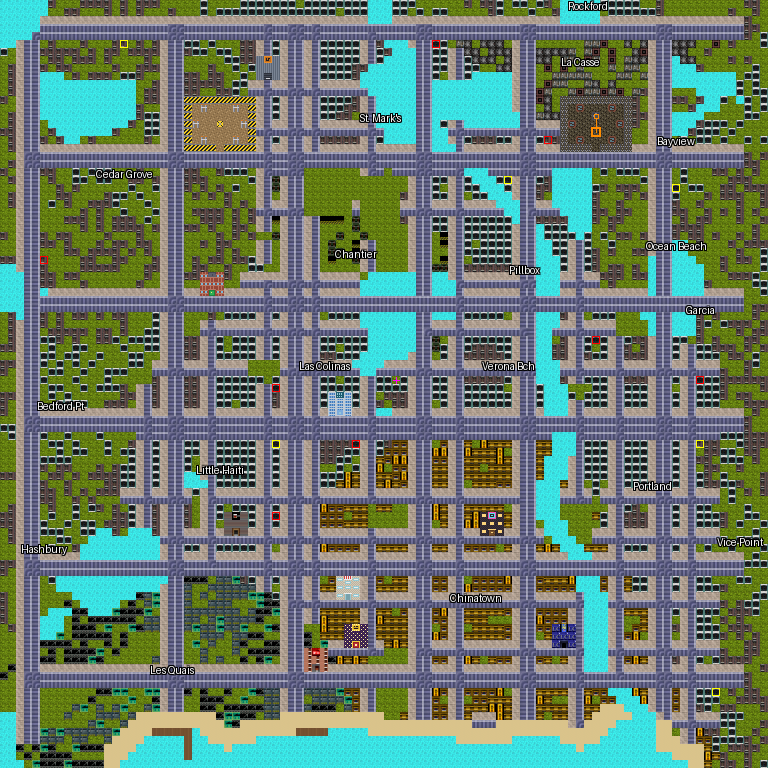
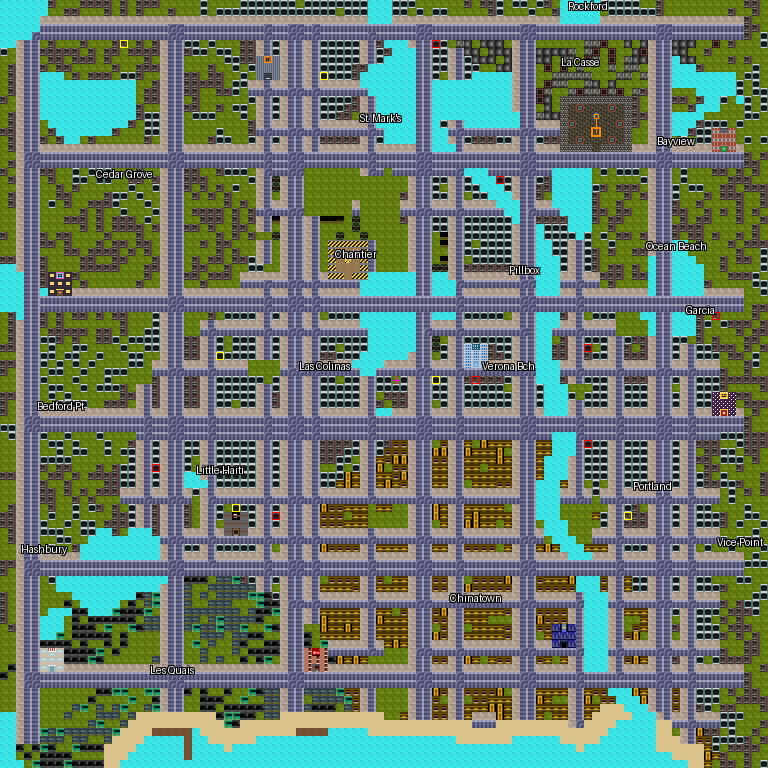
fix(pois): disperse les reperes de campagne + recentre le Chantier
- Les 6 reperes de trame s'agglutinaient (preference downtown). On retire la
  preference de zone et on les pose en farthest-point (chacun le plus loin
  possible des reperes deja places, services inclus) -> repartition sur toute
  la carte. Les 3 services (police/hopital/pompiers) gardent leur position.
- Le Chantier debordait hors de son quartier (blocs trop petits pour un 9x7).
  Blueprint reduit a 5x5 + placement STRICTEMENT dans le quartier construction
  (enceinte entierement dedans, au plus pres du centroide). Crane desormais au
  centre du quartier Chantier.
- Expose district_id/theme_assign sur l'objet city (diagnostic/placement).

119 tests verts. Map regeneree.

diff --git a/gta/citymap_data.cpp b/gta/citymap_data.cpp
@@ -14,13 +14,13 @@ const uint8_t cityMap[CITY_H*CITY_W] = {
   0, 6, 4, 2, 2, 5, 5, 5, 0, 6, 0, 6, 6, 6, 0, 7, 7, 6, 0, 0, 4, 2, 2, 6, 6, 0, 6, 6, 0, 0, 7, 0, 42, 44, 42, 4, 2, 2, 4, 2, 7, 7, 7, 7, 6, 5, 5, 5, 5, 5, 5, 5, 2, 2, 7, 0, 4, 2, 7, 5, 5, 5, 5, 5, 4, 2, 2, 0, 0, 26, 26, 26, 26, 26, 0, 0, 0, 26, 26, 0, 26, 4, 2, 2, 5, 5, 5, 5, 5, 5, 5, 5, 0, 7, 7, 0,
   0, 6, 4, 2, 2, 5, 5, 5, 5, 5, 5, 5, 5, 5, 5, 5, 5, 0, 0, 6, 4, 2, 2, 6, 6, 6, 6, 6, 0, 7, 7, 4, 4, 2, 4, 4, 2, 2, 4, 2, 4, 4, 4, 4, 4, 5, 5, 5, 5, 5, 5, 5, 2, 2, 5, 5, 5, 5, 5, 5, 5, 5, 5, 5, 4, 2, 2, 0, 28, 26, 26, 0, 0, 26, 27, 0, 27, 0, 0, 0, 0, 4, 2, 2, 5, 5, 5, 5, 5, 5, 5, 5, 7, 0, 7, 0,
   0, 6, 4, 2, 2, 5, 5, 5, 5, 5, 5, 5, 5, 5, 5, 5, 5, 0, 6, 6, 4, 2, 2, 6, 6, 0, 0, 6, 6, 7, 0, 1, 1, 3, 1, 1, 3, 3, 1, 3, 1, 1, 1, 1, 1, 1, 5, 5, 5, 5, 5, 5, 2, 2, 5, 5, 5, 5, 5, 5, 5, 5, 5, 5, 4, 2, 2, 28, 26, 0, 0, 26, 28, 26, 26, 28, 26, 28, 0, 26, 6, 4, 2, 2, 0, 0, 0, 5, 5, 5, 5, 5, 7, 0, 7, 7,
-  6, 0, 4, 2, 2, 5, 5, 5, 5, 5, 5, 5, 5, 5, 5, 5, 5, 0, 6, 6, 4, 2, 2, 36, 36, 36, 36, 36, 36, 36, 36, 36, 4, 2, 7, 4, 2, 2, 4, 2, 7, 7, 7, 7, 6, 4, 2, 5, 5, 5, 5, 5, 2, 2, 5, 5, 5, 5, 5, 5, 5, 5, 5, 5, 4, 2, 2, 28, 27, 0, 32, 32, 32, 32, 32, 32, 32, 32, 32, 6, 0, 4, 2, 2, 6, 6, 0, 6, 5, 5, 7, 0, 5, 7, 0, 7,
-  0, 0, 4, 2, 2, 5, 5, 5, 5, 5, 5, 5, 5, 5, 5, 5, 5, 6, 0, 0, 4, 2, 2, 36, 35, 37, 35, 35, 35, 37, 35, 36, 4, 2, 7, 4, 2, 2, 4, 2, 7, 7, 7, 6, 6, 4, 2, 5, 5, 5, 5, 5, 2, 2, 5, 5, 5, 5, 5, 5, 5, 5, 5, 5, 4, 2, 2, 0, 27, 0, 32, 31, 33, 31, 31, 31, 33, 31, 32, 6, 0, 4, 2, 2, 0, 0, 6, 5, 5, 5, 0, 0, 0, 7, 0, 7,
-  0, 6, 4, 2, 2, 5, 5, 5, 5, 5, 5, 5, 5, 5, 5, 5, 5, 6, 7, 7, 4, 2, 2, 36, 35, 35, 35, 35, 35, 35, 35, 36, 4, 2, 7, 4, 2, 2, 4, 2, 7, 7, 6, 6, 0, 4, 2, 5, 5, 5, 5, 5, 2, 2, 5, 5, 5, 5, 5, 5, 5, 5, 5, 5, 5, 2, 2, 26, 27, 27, 32, 31, 31, 31, 34, 31, 31, 31, 32, 6, 6, 4, 2, 2, 5, 5, 5, 5, 0, 0, 0, 0, 0, 7, 7, 0,
-  0, 6, 4, 2, 2, 0, 5, 5, 5, 5, 5, 5, 5, 5, 5, 5, 6, 0, 7, 7, 4, 2, 2, 36, 37, 35, 35, 38, 35, 35, 37, 36, 4, 2, 4, 4, 2, 2, 4, 2, 4, 4, 4, 4, 4, 4, 2, 5, 5, 5, 5, 5, 2, 2, 5, 7, 4, 2, 5, 5, 5, 5, 5, 5, 5, 2, 2, 4, 4, 4, 32, 33, 31, 31, 31, 31, 31, 33, 32, 6, 0, 4, 2, 2, 5, 5, 5, 6, 7, 7, 7, 0, 7, 0, 0, 0,
-  6, 6, 4, 2, 2, 0, 6, 5, 5, 5, 5, 5, 5, 5, 6, 0, 0, 0, 7, 7, 4, 2, 2, 36, 35, 35, 35, 35, 35, 35, 35, 36, 1, 3, 1, 1, 3, 3, 1, 3, 1, 1, 1, 1, 1, 1, 3, 1, 5, 5, 5, 5, 2, 2, 5, 5, 1, 3, 1, 1, 1, 1, 1, 1, 1, 3, 3, 1, 1, 1, 32, 31, 31, 31, 31, 31, 31, 31, 32, 0, 0, 4, 2, 2, 5, 5, 6, 7, 7, 7, 0, 7, 0, 0, 0, 0,
-  0, 6, 4, 2, 2, 6, 0, 6, 5, 5, 0, 6, 0, 0, 0, 0, 0, 0, 6, 0, 4, 2, 2, 36, 35, 37, 35, 35, 35, 37, 35, 36, 4, 2, 7, 4, 2, 2, 4, 2, 6, 6, 6, 6, 6, 4, 2, 7, 5, 5, 5, 5, 2, 2, 5, 5, 4, 2, 7, 6, 6, 6, 7, 7, 4, 2, 2, 7, 6, 6, 32, 31, 33, 31, 31, 31, 33, 31, 32, 0, 0, 4, 2, 2, 0, 7, 0, 7, 7, 0, 7, 0, 0, 7, 0, 7,
-  0, 6, 4, 2, 2, 4, 4, 4, 4, 4, 4, 4, 4, 4, 4, 4, 4, 4, 4, 4, 4, 2, 2, 36, 36, 36, 36, 35, 36, 36, 36, 36, 4, 2, 4, 4, 2, 2, 4, 2, 4, 4, 4, 4, 4, 4, 2, 4, 4, 4, 4, 4, 2, 2, 5, 5, 5, 2, 4, 4, 4, 4, 4, 4, 4, 2, 2, 4, 4, 4, 32, 32, 32, 32, 31, 32, 32, 32, 32, 4, 4, 4, 2, 2, 4, 4, 4, 4, 4, 4, 4, 4, 4, 0, 0, 0,
+  6, 0, 4, 2, 2, 5, 5, 5, 5, 5, 5, 5, 5, 5, 5, 5, 5, 0, 6, 6, 4, 2, 2, 0, 6, 0, 0, 0, 0, 0, 0, 7, 4, 2, 7, 4, 2, 2, 4, 2, 7, 7, 7, 7, 6, 4, 2, 5, 5, 5, 5, 5, 2, 2, 5, 5, 5, 5, 5, 5, 5, 5, 5, 5, 4, 2, 2, 28, 27, 0, 32, 32, 32, 32, 32, 32, 32, 32, 32, 6, 0, 4, 2, 2, 6, 6, 0, 6, 5, 5, 7, 0, 5, 7, 0, 7,
+  0, 0, 4, 2, 2, 5, 5, 5, 5, 5, 5, 5, 5, 5, 5, 5, 5, 6, 0, 0, 4, 2, 2, 6, 6, 0, 0, 6, 0, 7, 7, 0, 4, 2, 7, 4, 2, 2, 4, 2, 7, 7, 7, 6, 6, 4, 2, 5, 5, 5, 5, 5, 2, 2, 5, 5, 5, 5, 5, 5, 5, 5, 5, 5, 4, 2, 2, 0, 27, 0, 32, 31, 33, 31, 31, 31, 33, 31, 32, 6, 0, 4, 2, 2, 0, 0, 6, 5, 5, 5, 0, 0, 0, 7, 0, 7,
+  0, 6, 4, 2, 2, 5, 5, 5, 5, 5, 5, 5, 5, 5, 5, 5, 5, 6, 7, 7, 4, 2, 2, 0, 7, 7, 7, 0, 0, 0, 7, 0, 4, 2, 7, 4, 2, 2, 4, 2, 7, 7, 6, 6, 0, 4, 2, 5, 5, 5, 5, 5, 2, 2, 5, 5, 5, 5, 5, 5, 5, 5, 5, 5, 5, 2, 2, 26, 27, 27, 32, 31, 31, 31, 34, 31, 31, 31, 32, 6, 6, 4, 2, 2, 5, 5, 5, 5, 0, 0, 0, 0, 0, 7, 7, 0,
+  0, 6, 4, 2, 2, 0, 5, 5, 5, 5, 5, 5, 5, 5, 5, 5, 6, 0, 7, 7, 4, 2, 2, 0, 0, 0, 0, 0, 0, 0, 0, 6, 4, 2, 4, 4, 2, 2, 4, 2, 4, 4, 4, 4, 4, 4, 2, 5, 5, 5, 5, 5, 2, 2, 5, 7, 4, 2, 5, 5, 5, 5, 5, 5, 5, 2, 2, 4, 4, 4, 32, 33, 31, 31, 31, 31, 31, 33, 32, 6, 0, 4, 2, 2, 5, 5, 5, 6, 7, 7, 7, 0, 7, 0, 0, 0,
+  6, 6, 4, 2, 2, 0, 6, 5, 5, 5, 5, 5, 5, 5, 6, 0, 0, 0, 7, 7, 4, 2, 2, 0, 0, 0, 0, 7, 0, 0, 0, 6, 1, 3, 1, 1, 3, 3, 1, 3, 1, 1, 1, 1, 1, 1, 3, 1, 5, 5, 5, 5, 2, 2, 5, 5, 1, 3, 1, 1, 1, 1, 1, 1, 1, 3, 3, 1, 1, 1, 32, 31, 31, 31, 31, 31, 31, 31, 32, 0, 0, 4, 2, 2, 5, 5, 6, 7, 7, 39, 40, 39, 0, 0, 0, 0,
+  0, 6, 4, 2, 2, 6, 0, 6, 5, 5, 0, 6, 0, 0, 0, 0, 0, 0, 6, 0, 4, 2, 2, 0, 0, 0, 6, 7, 7, 0, 0, 7, 4, 2, 7, 4, 2, 2, 4, 2, 6, 6, 6, 6, 6, 4, 2, 7, 5, 5, 5, 5, 2, 2, 5, 5, 4, 2, 7, 6, 6, 6, 7, 7, 4, 2, 2, 7, 6, 6, 32, 31, 33, 31, 31, 31, 33, 31, 32, 0, 0, 4, 2, 2, 0, 7, 0, 7, 7, 39, 39, 39, 0, 7, 0, 7,
+  0, 6, 4, 2, 2, 4, 4, 4, 4, 4, 4, 4, 4, 4, 4, 4, 4, 4, 4, 4, 4, 2, 2, 4, 4, 4, 4, 4, 4, 4, 4, 4, 4, 2, 4, 4, 2, 2, 4, 2, 4, 4, 4, 4, 4, 4, 2, 4, 4, 4, 4, 4, 2, 2, 5, 5, 5, 2, 4, 4, 4, 4, 4, 4, 4, 2, 2, 4, 4, 4, 32, 32, 32, 32, 31, 32, 32, 32, 32, 4, 4, 4, 2, 2, 4, 4, 4, 4, 4, 39, 41, 39, 4, 0, 0, 0,
   0, 0, 4, 3, 3, 1, 1, 1, 1, 1, 1, 1, 1, 1, 1, 1, 1, 1, 1, 1, 1, 3, 3, 1, 1, 1, 1, 1, 1, 1, 1, 1, 1, 3, 1, 1, 3, 3, 1, 1, 1, 1, 1, 1, 1, 1, 3, 1, 1, 1, 1, 1, 3, 3, 1, 1, 1, 1, 1, 1, 1, 1, 1, 1, 1, 3, 3, 1, 1, 1, 1, 1, 1, 1, 1, 1, 1, 1, 1, 1, 1, 1, 3, 3, 1, 1, 1, 1, 1, 1, 1, 1, 1, 6, 0, 6,
   0, 6, 4, 3, 3, 1, 1, 1, 1, 1, 1, 1, 1, 1, 1, 1, 1, 1, 1, 1, 1, 3, 3, 1, 1, 1, 1, 1, 1, 1, 1, 1, 1, 3, 1, 1, 3, 3, 1, 1, 1, 1, 1, 1, 1, 1, 3, 1, 1, 1, 1, 1, 3, 3, 1, 1, 1, 1, 1, 1, 1, 1, 1, 1, 1, 3, 3, 1, 1, 1, 1, 1, 1, 1, 1, 1, 1, 1, 1, 1, 1, 1, 3, 3, 1, 1, 1, 1, 1, 1, 1, 1, 1, 6, 6, 0,
   6, 0, 4, 2, 2, 6, 6, 0, 0, 7, 0, 7, 7, 7, 0, 0, 0, 6, 0, 0, 4, 2, 2, 6, 6, 0, 0, 6, 7, 7, 7, 0, 4, 3, 1, 1, 3, 3, 0, 0, 0, 0, 0, 0, 0, 4, 3, 1, 0, 1, 1, 1, 3, 3, 1, 1, 1, 3, 5, 5, 5, 1, 1, 1, 1, 3, 3, 1, 1, 5, 5, 5, 5, 5, 0, 7, 0, 7, 7, 7, 0, 4, 2, 2, 0, 7, 0, 0, 0, 6, 6, 0, 6, 0, 6, 0,
@@ -32,28 +32,28 @@ const uint8_t cityMap[CITY_H*CITY_W] = {
   0, 0, 4, 2, 2, 0, 0, 0, 6, 6, 6, 0, 6, 0, 6, 6, 6, 0, 7, 0, 4, 2, 2, 0, 0, 6, 6, 6, 0, 6, 0, 6, 4, 2, 25, 4, 2, 2, 4, 2, 24, 24, 25, 0, 23, 0, 0, 0, 0, 0, 6, 4, 2, 2, 7, 7, 4, 2, 7, 7, 7, 7, 7, 7, 5, 2, 2, 6, 6, 6, 6, 5, 5, 5, 6, 0, 6, 6, 0, 0, 0, 4, 2, 2, 0, 6, 0, 6, 6, 0, 0, 0, 6, 0, 0, 6,
   0, 0, 4, 2, 2, 0, 0, 0, 0, 0, 6, 0, 6, 0, 6, 6, 6, 6, 0, 6, 4, 2, 2, 6, 6, 0, 6, 0, 0, 6, 6, 0, 4, 2, 0, 4, 2, 2, 4, 2, 0, 0, 0, 0, 23, 0, 0, 0, 0, 0, 0, 4, 2, 2, 7, 7, 4, 2, 7, 7, 7, 7, 7, 7, 4, 2, 2, 5, 7, 7, 7, 5, 5, 5, 0, 0, 6, 0, 0, 0, 0, 4, 2, 2, 6, 6, 6, 6, 0, 0, 0, 0, 0, 0, 6, 0,
   6, 0, 4, 2, 2, 6, 0, 6, 6, 0, 0, 0, 0, 6, 0, 0, 0, 6, 0, 0, 4, 2, 2, 0, 0, 0, 0, 6, 0, 6, 0, 6, 0, 0, 23, 4, 2, 2, 4, 2, 0, 0, 23, 0, 0, 23, 0, 0, 0, 0, 0, 4, 2, 2, 0, 24, 4, 2, 7, 7, 7, 7, 7, 7, 4, 2, 2, 5, 7, 7, 7, 7, 5, 7, 0, 7, 0, 6, 6, 0, 6, 4, 2, 2, 6, 0, 6, 6, 0, 6, 0, 0, 6, 0, 6, 0,
-  0, 0, 4, 2, 2, 6, 6, 0, 6, 0, 0, 0, 6, 0, 6, 6, 0, 6, 6, 0, 4, 2, 2, 0, 0, 6, 0, 6, 6, 0, 0, 0, 4, 2, 0, 4, 2, 2, 4, 2, 0, 23, 0, 0, 25, 4, 2, 0, 0, 0, 0, 4, 2, 2, 0, 24, 4, 2, 7, 0, 7, 7, 7, 7, 4, 2, 2, 5, 5, 7, 7, 4, 2, 7, 0, 0, 7, 0, 0, 0, 0, 4, 2, 2, 5, 5, 0, 6, 0, 0, 0, 6, 0, 6, 6, 6,
-  0, 0, 4, 2, 2, 0, 0, 0, 6, 6, 0, 6, 6, 6, 6, 0, 6, 0, 6, 0, 4, 2, 2, 0, 0, 0, 0, 6, 0, 6, 0, 0, 4, 2, 0, 4, 2, 2, 4, 2, 0, 23, 23, 0, 25, 4, 2, 0, 0, 0, 0, 4, 2, 2, 0, 0, 4, 2, 7, 7, 7, 7, 7, 7, 4, 2, 2, 5, 5, 7, 7, 4, 2, 7, 6, 0, 6, 0, 0, 6, 6, 4, 2, 2, 5, 5, 0, 0, 0, 0, 0, 0, 6, 0, 0, 7,
-  6, 6, 4, 2, 2, 6, 0, 0, 0, 0, 6, 6, 0, 0, 6, 6, 0, 0, 0, 6, 4, 2, 2, 0, 6, 0, 6, 6, 0, 6, 6, 7, 4, 2, 0, 4, 2, 2, 4, 2, 0, 24, 0, 0, 23, 4, 2, 0, 0, 0, 0, 4, 2, 2, 0, 24, 4, 2, 0, 7, 7, 7, 7, 7, 4, 2, 2, 5, 5, 5, 7, 4, 2, 7, 6, 0, 0, 0, 0, 0, 0, 5, 2, 2, 5, 5, 5, 0, 0, 0, 6, 0, 6, 6, 0, 7,
-  5, 5, 4, 2, 2, 6, 0, 0, 0, 0, 6, 6, 6, 6, 6, 0, 0, 0, 6, 6, 4, 2, 2, 0, 6, 6, 0, 0, 6, 0, 0, 7, 7, 0, 0, 4, 2, 2, 4, 2, 0, 0, 0, 0, 0, 4, 2, 0, 0, 0, 0, 4, 2, 2, 23, 23, 4, 2, 6, 6, 6, 6, 6, 6, 4, 2, 2, 5, 5, 5, 7, 4, 2, 7, 6, 0, 6, 6, 0, 6, 0, 5, 2, 2, 5, 5, 5, 5, 0, 0, 6, 0, 0, 0, 0, 7,
-  5, 5, 5, 2, 2, 6, 6, 0, 6, 6, 0, 0, 0, 0, 0, 0, 0, 0, 6, 0, 4, 2, 2, 6, 6, 39, 40, 39, 6, 0, 4, 4, 4, 4, 4, 4, 2, 2, 4, 2, 4, 4, 4, 4, 4, 0, 5, 5, 5, 5, 5, 5, 2, 2, 5, 5, 4, 2, 4, 4, 4, 4, 4, 4, 4, 2, 2, 5, 5, 5, 4, 4, 2, 4, 4, 6, 6, 6, 0, 6, 6, 5, 2, 2, 5, 5, 5, 5, 0, 0, 0, 6, 6, 6, 7, 0,
-  5, 5, 5, 2, 2, 6, 6, 0, 0, 0, 6, 0, 0, 0, 0, 0, 0, 6, 0, 0, 4, 2, 2, 0, 0, 39, 39, 39, 0, 0, 1, 1, 1, 3, 1, 1, 3, 3, 1, 3, 1, 1, 1, 1, 1, 5, 5, 5, 5, 5, 5, 5, 2, 2, 5, 5, 5, 3, 1, 1, 1, 1, 1, 1, 1, 3, 3, 5, 5, 5, 1, 1, 3, 1, 1, 0, 6, 0, 0, 0, 0, 5, 2, 2, 5, 5, 5, 5, 6, 0, 0, 0, 0, 0, 7, 7,
-  5, 5, 5, 2, 2, 5, 4, 4, 4, 4, 4, 4, 4, 4, 4, 4, 4, 4, 4, 4, 4, 2, 2, 4, 4, 39, 41, 39, 4, 4, 4, 4, 4, 2, 4, 4, 2, 2, 4, 2, 4, 4, 4, 4, 4, 5, 5, 5, 5, 5, 5, 5, 2, 2, 5, 5, 5, 2, 4, 4, 4, 4, 4, 4, 4, 2, 2, 5, 5, 5, 4, 4, 2, 4, 4, 4, 4, 4, 4, 4, 4, 5, 2, 2, 5, 5, 5, 5, 4, 4, 4, 4, 4, 0, 0, 7,
+  0, 0, 4, 2, 2, 6, 6, 0, 6, 0, 0, 0, 6, 0, 6, 6, 0, 6, 6, 0, 4, 2, 2, 0, 0, 6, 0, 6, 6, 0, 0, 0, 4, 2, 0, 4, 2, 2, 4, 2, 0, 36, 36, 36, 36, 36, 2, 0, 0, 0, 0, 4, 2, 2, 0, 24, 4, 2, 7, 0, 7, 7, 7, 7, 4, 2, 2, 5, 5, 7, 7, 4, 2, 7, 0, 0, 7, 0, 0, 0, 0, 4, 2, 2, 5, 5, 0, 6, 0, 0, 0, 6, 0, 6, 6, 6,
+  0, 0, 4, 2, 2, 0, 0, 0, 6, 6, 0, 6, 6, 6, 6, 0, 6, 0, 6, 0, 4, 2, 2, 0, 0, 0, 0, 6, 0, 6, 0, 0, 4, 2, 0, 4, 2, 2, 4, 2, 0, 36, 37, 35, 37, 36, 2, 0, 0, 0, 0, 4, 2, 2, 0, 0, 4, 2, 7, 7, 7, 7, 7, 7, 4, 2, 2, 5, 5, 7, 7, 4, 2, 7, 6, 0, 6, 0, 0, 6, 6, 4, 2, 2, 5, 5, 0, 0, 0, 0, 0, 0, 6, 0, 0, 7,
+  6, 6, 4, 2, 2, 6, 0, 0, 0, 0, 6, 6, 0, 0, 6, 6, 0, 0, 0, 6, 4, 2, 2, 0, 6, 0, 6, 6, 0, 6, 6, 7, 4, 2, 0, 4, 2, 2, 4, 2, 0, 36, 35, 38, 35, 36, 2, 0, 0, 0, 0, 4, 2, 2, 0, 24, 4, 2, 0, 7, 7, 7, 7, 7, 4, 2, 2, 5, 5, 5, 7, 4, 2, 7, 6, 0, 0, 0, 0, 0, 0, 5, 2, 2, 5, 5, 5, 0, 0, 0, 6, 0, 6, 6, 0, 7,
+  5, 5, 4, 2, 2, 6, 0, 0, 0, 0, 6, 6, 6, 6, 6, 0, 0, 0, 6, 6, 4, 2, 2, 0, 6, 6, 0, 0, 6, 0, 0, 7, 7, 0, 0, 4, 2, 2, 4, 2, 0, 36, 35, 35, 35, 36, 2, 0, 0, 0, 0, 4, 2, 2, 23, 23, 4, 2, 6, 6, 6, 6, 6, 6, 4, 2, 2, 5, 5, 5, 7, 4, 2, 7, 6, 0, 6, 6, 0, 6, 0, 5, 2, 2, 5, 5, 5, 5, 0, 0, 6, 0, 0, 0, 0, 7,
+  5, 5, 5, 2, 2, 6, 45, 46, 45, 6, 0, 0, 0, 0, 0, 0, 0, 0, 6, 0, 4, 2, 2, 6, 6, 0, 6, 6, 6, 0, 4, 4, 4, 4, 4, 4, 2, 2, 4, 2, 4, 36, 36, 35, 36, 36, 5, 5, 5, 5, 5, 5, 2, 2, 5, 5, 4, 2, 4, 4, 4, 4, 4, 4, 4, 2, 2, 5, 5, 5, 4, 4, 2, 4, 4, 6, 6, 6, 0, 6, 6, 5, 2, 2, 5, 5, 5, 5, 0, 0, 0, 6, 6, 6, 7, 0,
+  5, 5, 5, 2, 2, 6, 45, 45, 45, 0, 6, 0, 0, 0, 0, 0, 0, 6, 0, 0, 4, 2, 2, 0, 0, 6, 0, 0, 0, 0, 1, 1, 1, 3, 1, 1, 3, 3, 1, 3, 1, 1, 1, 1, 1, 5, 5, 5, 5, 5, 5, 5, 2, 2, 5, 5, 5, 3, 1, 1, 1, 1, 1, 1, 1, 3, 3, 5, 5, 5, 1, 1, 3, 1, 1, 0, 6, 0, 0, 0, 0, 5, 2, 2, 5, 5, 5, 5, 6, 0, 0, 0, 0, 0, 7, 7,
+  5, 5, 5, 2, 2, 5, 45, 47, 45, 4, 4, 4, 4, 4, 4, 4, 4, 4, 4, 4, 4, 2, 2, 4, 4, 4, 4, 4, 4, 4, 4, 4, 4, 2, 4, 4, 2, 2, 4, 2, 4, 4, 4, 4, 4, 5, 5, 5, 5, 5, 5, 5, 2, 2, 5, 5, 5, 2, 4, 4, 4, 4, 4, 4, 4, 2, 2, 5, 5, 5, 4, 4, 2, 4, 4, 4, 4, 4, 4, 4, 4, 5, 2, 2, 5, 5, 5, 5, 4, 4, 4, 4, 4, 0, 0, 7,
   5, 5, 5, 2, 2, 1, 1, 1, 1, 1, 1, 1, 1, 1, 1, 1, 1, 1, 1, 1, 1, 3, 3, 1, 1, 1, 1, 1, 1, 1, 1, 1, 1, 3, 1, 1, 3, 3, 1, 3, 1, 1, 1, 1, 1, 1, 1, 1, 1, 1, 1, 1, 1, 1, 1, 1, 1, 3, 1, 1, 1, 1, 1, 1, 1, 3, 3, 1, 1, 1, 1, 1, 3, 1, 1, 1, 1, 1, 1, 1, 1, 1, 1, 1, 1, 1, 1, 1, 1, 1, 1, 1, 1, 0, 0, 0,
   5, 5, 5, 2, 2, 1, 1, 1, 1, 1, 1, 1, 1, 1, 1, 1, 1, 1, 1, 1, 1, 3, 3, 1, 1, 1, 1, 1, 1, 1, 1, 1, 1, 3, 1, 1, 3, 3, 1, 3, 1, 1, 1, 1, 1, 1, 1, 1, 1, 1, 1, 1, 1, 1, 1, 1, 1, 3, 1, 1, 1, 1, 1, 1, 1, 3, 3, 1, 1, 1, 1, 1, 3, 1, 1, 1, 1, 1, 1, 1, 1, 1, 1, 1, 1, 1, 1, 1, 1, 1, 1, 1, 1, 0, 6, 6,
   0, 6, 5, 2, 2, 6, 0, 6, 0, 6, 6, 0, 6, 0, 6, 6, 0, 0, 0, 7, 4, 2, 2, 0, 0, 0, 6, 0, 7, 7, 7, 7, 4, 2, 7, 4, 2, 2, 4, 2, 0, 7, 7, 7, 7, 5, 5, 5, 5, 5, 5, 5, 2, 2, 5, 5, 5, 2, 7, 7, 7, 7, 7, 0, 4, 2, 2, 5, 5, 5, 6, 4, 2, 0, 7, 7, 7, 0, 0, 0, 5, 5, 2, 2, 5, 5, 5, 6, 0, 6, 0, 0, 0, 0, 6, 0,
   0, 6, 4, 2, 2, 6, 0, 6, 0, 0, 0, 0, 0, 0, 0, 6, 0, 0, 0, 7, 4, 2, 2, 0, 0, 4, 2, 4, 4, 4, 4, 4, 4, 2, 4, 4, 2, 2, 4, 2, 4, 4, 4, 4, 4, 5, 5, 5, 5, 5, 5, 5, 2, 2, 4, 4, 4, 2, 4, 4, 4, 4, 4, 4, 4, 2, 2, 5, 5, 5, 4, 4, 2, 4, 4, 4, 4, 0, 0, 0, 0, 5, 2, 2, 5, 5, 5, 6, 7, 0, 7, 6, 6, 6, 0, 6,
   0, 6, 4, 2, 2, 0, 6, 6, 6, 6, 6, 0, 6, 6, 0, 6, 0, 0, 7, 7, 4, 2, 2, 0, 0, 1, 3, 1, 1, 1, 1, 1, 1, 3, 1, 1, 3, 3, 1, 3, 1, 1, 1, 1, 1, 1, 5, 5, 5, 5, 5, 5, 2, 3, 1, 1, 1, 3, 1, 1, 1, 1, 1, 1, 1, 3, 2, 5, 5, 1, 1, 1, 3, 1, 1, 1, 1, 0, 0, 0, 0, 5, 2, 2, 5, 5, 5, 6, 0, 0, 0, 0, 6, 0, 6, 6,
   0, 6, 4, 2, 2, 7, 7, 6, 0, 6, 0, 0, 6, 6, 7, 0, 7, 7, 7, 7, 4, 2, 2, 6, 6, 4, 2, 7, 0, 7, 7, 7, 4, 2, 7, 4, 2, 2, 4, 2, 7, 7, 7, 7, 7, 7, 5, 5, 5, 5, 5, 5, 2, 2, 23, 0, 4, 2, 7, 7, 7, 7, 7, 7, 4, 2, 2, 5, 5, 0, 6, 4, 2, 7, 7, 7, 4, 2, 7, 6, 6, 4, 2, 2, 7, 7, 0, 6, 0, 6, 0, 0, 0, 6, 6, 0,
-  6, 6, 4, 2, 2, 0, 7, 0, 0, 7, 7, 0, 0, 0, 0, 7, 0, 0, 7, 7, 4, 2, 2, 6, 6, 4, 2, 7, 0, 7, 7, 7, 4, 2, 7, 4, 2, 2, 4, 2, 7, 7, 0, 7, 7, 7, 5, 5, 5, 5, 5, 5, 2, 2, 23, 7, 4, 2, 7, 6, 6, 6, 7, 7, 4, 2, 2, 5, 5, 6, 6, 4, 2, 7, 0, 7, 4, 2, 6, 0, 6, 4, 2, 2, 7, 4, 2, 7, 7, 6, 6, 6, 0, 6, 0, 6,
-  0, 0, 4, 2, 2, 7, 7, 0, 7, 7, 0, 0, 7, 0, 0, 0, 7, 7, 0, 0, 4, 2, 2, 6, 6, 4, 2, 7, 7, 7, 7, 7, 4, 2, 7, 4, 2, 2, 4, 2, 6, 6, 7, 7, 7, 5, 5, 5, 5, 5, 5, 4, 2, 2, 0, 7, 4, 2, 6, 6, 6, 6, 6, 7, 4, 2, 2, 5, 5, 6, 6, 4, 2, 6, 7, 7, 4, 2, 6, 6, 6, 4, 2, 2, 7, 4, 2, 7, 7, 7, 0, 6, 6, 0, 7, 0,
-  6, 6, 4, 2, 2, 7, 0, 7, 0, 7, 0, 7, 0, 0, 0, 0, 7, 7, 0, 4, 4, 2, 2, 4, 4, 4, 2, 4, 4, 4, 4, 0, 0, 0, 0, 4, 2, 2, 4, 2, 4, 4, 4, 4, 5, 5, 5, 5, 4, 4, 4, 4, 2, 2, 4, 4, 4, 2, 4, 4, 4, 4, 4, 4, 4, 2, 2, 5, 5, 5, 4, 4, 2, 4, 4, 4, 4, 2, 4, 4, 4, 4, 2, 2, 4, 4, 2, 4, 4, 4, 0, 0, 0, 6, 7, 0,
+  6, 6, 4, 2, 2, 0, 7, 0, 0, 7, 7, 0, 0, 0, 0, 7, 0, 0, 7, 7, 4, 2, 2, 6, 6, 4, 2, 7, 0, 7, 7, 7, 4, 2, 7, 4, 2, 2, 4, 2, 7, 7, 0, 7, 7, 7, 5, 5, 5, 5, 5, 5, 2, 2, 23, 7, 4, 2, 48, 49, 48, 6, 7, 7, 4, 2, 2, 5, 5, 6, 6, 4, 2, 7, 0, 7, 4, 2, 6, 0, 6, 4, 2, 2, 7, 4, 2, 7, 7, 6, 6, 6, 0, 6, 0, 6,
+  0, 0, 4, 2, 2, 7, 7, 0, 7, 7, 0, 0, 7, 0, 0, 0, 7, 7, 0, 0, 4, 2, 2, 6, 6, 4, 2, 7, 7, 7, 7, 7, 4, 2, 7, 4, 2, 2, 4, 2, 6, 6, 7, 7, 7, 5, 5, 5, 5, 5, 5, 4, 2, 2, 0, 7, 4, 2, 48, 48, 48, 6, 6, 7, 4, 2, 2, 5, 5, 6, 6, 4, 2, 6, 7, 7, 4, 2, 6, 6, 6, 4, 2, 2, 7, 4, 2, 7, 7, 7, 0, 6, 6, 0, 7, 0,
+  6, 6, 4, 2, 2, 7, 0, 7, 0, 7, 0, 7, 0, 0, 0, 0, 7, 7, 0, 4, 4, 2, 2, 4, 4, 4, 2, 4, 4, 4, 4, 0, 0, 0, 0, 4, 2, 2, 4, 2, 4, 4, 4, 4, 5, 5, 5, 5, 4, 4, 4, 4, 2, 2, 4, 4, 4, 2, 48, 50, 48, 4, 4, 4, 4, 2, 2, 5, 5, 5, 4, 4, 2, 4, 4, 4, 4, 2, 4, 4, 4, 4, 2, 2, 4, 4, 2, 4, 4, 4, 0, 0, 0, 6, 7, 0,
   6, 0, 4, 2, 2, 0, 7, 7, 0, 0, 7, 0, 0, 7, 7, 7, 0, 0, 0, 1, 1, 3, 3, 1, 1, 1, 3, 1, 1, 1, 1, 0, 0, 0, 0, 1, 3, 3, 1, 3, 1, 1, 1, 1, 1, 5, 5, 1, 1, 1, 1, 1, 3, 3, 1, 1, 1, 3, 1, 1, 1, 1, 1, 1, 1, 3, 3, 5, 5, 5, 1, 1, 3, 1, 1, 1, 1, 3, 1, 1, 1, 1, 3, 3, 1, 1, 3, 1, 1, 1, 6, 0, 0, 6, 0, 0,
   0, 0, 4, 2, 2, 7, 0, 0, 0, 7, 0, 0, 0, 7, 0, 0, 0, 0, 0, 6, 4, 2, 2, 6, 6, 4, 2, 7, 7, 7, 7, 7, 7, 0, 7, 4, 2, 2, 4, 2, 7, 7, 0, 7, 7, 4, 2, 7, 7, 0, 7, 4, 2, 2, 7, 7, 4, 2, 6, 6, 6, 6, 6, 7, 4, 2, 2, 5, 5, 5, 6, 4, 2, 7, 7, 7, 4, 2, 6, 6, 6, 4, 2, 2, 7, 4, 2, 7, 7, 7, 6, 6, 6, 6, 6, 6,
   0, 0, 4, 2, 2, 0, 7, 7, 0, 0, 7, 0, 7, 7, 7, 6, 0, 4, 2, 6, 4, 2, 2, 6, 6, 4, 2, 7, 7, 7, 7, 7, 4, 2, 7, 4, 2, 2, 4, 2, 7, 7, 7, 7, 7, 4, 2, 7, 7, 7, 7, 4, 2, 2, 7, 7, 4, 2, 7, 7, 7, 7, 7, 0, 4, 2, 2, 7, 5, 5, 5, 0, 0, 0, 7, 7, 4, 2, 7, 7, 7, 4, 2, 2, 0, 4, 2, 7, 7, 7, 6, 0, 0, 0, 0, 6,
-  6, 6, 4, 2, 2, 0, 7, 0, 7, 0, 0, 0, 0, 0, 0, 6, 6, 4, 2, 6, 4, 2, 2, 6, 6, 4, 2, 7, 7, 7, 7, 7, 4, 2, 6, 4, 2, 2, 4, 2, 7, 48, 49, 48, 7, 4, 2, 0, 6, 6, 6, 4, 2, 2, 7, 7, 4, 2, 7, 7, 7, 7, 7, 7, 4, 2, 2, 7, 5, 5, 5, 7, 0, 7, 7, 7, 4, 2, 7, 7, 7, 4, 2, 2, 7, 4, 2, 7, 7, 7, 6, 0, 6, 6, 0, 0,
-  6, 0, 4, 2, 2, 0, 0, 7, 7, 7, 7, 0, 0, 6, 6, 6, 0, 4, 2, 6, 4, 2, 2, 6, 6, 4, 2, 7, 7, 0, 7, 7, 4, 2, 6, 4, 2, 2, 4, 2, 7, 48, 48, 48, 7, 4, 2, 6, 0, 6, 6, 4, 2, 2, 0, 7, 4, 2, 7, 7, 7, 7, 7, 7, 4, 2, 2, 7, 5, 5, 5, 4, 2, 7, 7, 7, 4, 2, 7, 7, 7, 4, 2, 2, 7, 4, 2, 7, 7, 7, 0, 0, 0, 6, 6, 6,
-  6, 0, 4, 2, 2, 4, 4, 4, 4, 4, 4, 4, 4, 4, 4, 4, 4, 4, 2, 4, 4, 2, 2, 4, 4, 4, 2, 4, 4, 4, 4, 4, 4, 2, 4, 4, 2, 2, 4, 2, 4, 48, 50, 48, 4, 4, 2, 5, 5, 4, 4, 4, 2, 2, 4, 4, 4, 2, 4, 4, 4, 4, 4, 4, 4, 2, 2, 4, 5, 5, 5, 4, 2, 4, 4, 4, 4, 2, 4, 4, 4, 4, 2, 2, 4, 4, 2, 4, 4, 4, 4, 4, 4, 0, 6, 0,
+  6, 6, 4, 2, 2, 0, 7, 0, 7, 0, 0, 0, 0, 0, 0, 6, 6, 4, 2, 6, 4, 2, 2, 6, 6, 4, 2, 7, 7, 7, 7, 7, 4, 2, 6, 4, 2, 2, 4, 2, 7, 7, 7, 7, 7, 4, 2, 0, 6, 6, 6, 4, 2, 2, 7, 7, 4, 2, 7, 7, 7, 7, 7, 7, 4, 2, 2, 7, 5, 5, 5, 7, 0, 7, 7, 7, 4, 2, 7, 7, 7, 4, 2, 2, 7, 4, 2, 7, 7, 51, 52, 51, 6, 6, 0, 0,
+  6, 0, 4, 2, 2, 0, 0, 7, 7, 7, 7, 0, 0, 6, 6, 6, 0, 4, 2, 6, 4, 2, 2, 6, 6, 4, 2, 7, 7, 0, 7, 7, 4, 2, 6, 4, 2, 2, 4, 2, 7, 7, 7, 7, 7, 4, 2, 6, 0, 6, 6, 4, 2, 2, 0, 7, 4, 2, 7, 7, 7, 7, 7, 7, 4, 2, 2, 7, 5, 5, 5, 4, 2, 7, 7, 7, 4, 2, 7, 7, 7, 4, 2, 2, 7, 4, 2, 7, 7, 51, 51, 51, 0, 6, 6, 6,
+  6, 0, 4, 2, 2, 4, 4, 4, 4, 4, 4, 4, 4, 4, 4, 4, 4, 4, 2, 4, 4, 2, 2, 4, 4, 4, 2, 4, 4, 4, 4, 4, 4, 2, 4, 4, 2, 2, 4, 2, 4, 4, 4, 4, 4, 4, 2, 5, 5, 4, 4, 4, 2, 2, 4, 4, 4, 2, 4, 4, 4, 4, 4, 4, 4, 2, 2, 4, 5, 5, 5, 4, 2, 4, 4, 4, 4, 2, 4, 4, 4, 4, 2, 2, 4, 4, 2, 4, 4, 51, 53, 51, 4, 0, 6, 0,
   0, 0, 4, 3, 3, 1, 1, 1, 1, 1, 1, 1, 1, 1, 1, 1, 1, 1, 3, 1, 1, 3, 3, 1, 1, 1, 3, 1, 1, 1, 1, 1, 1, 3, 1, 1, 3, 3, 1, 3, 1, 1, 1, 1, 1, 1, 3, 1, 1, 1, 1, 1, 3, 3, 1, 1, 1, 3, 1, 1, 1, 1, 1, 1, 1, 3, 3, 1, 1, 1, 1, 1, 3, 1, 1, 1, 1, 3, 1, 1, 1, 1, 3, 3, 1, 1, 3, 1, 1, 1, 1, 1, 1, 6, 0, 0,
   7, 7, 4, 3, 3, 1, 1, 1, 1, 1, 1, 1, 1, 1, 1, 1, 1, 1, 3, 1, 1, 3, 3, 1, 1, 1, 3, 1, 1, 1, 1, 1, 1, 3, 1, 1, 3, 3, 1, 3, 1, 1, 1, 1, 1, 1, 3, 1, 1, 1, 1, 1, 3, 3, 1, 1, 1, 3, 1, 1, 1, 1, 1, 1, 1, 3, 3, 1, 1, 1, 1, 1, 3, 1, 1, 1, 1, 3, 1, 1, 1, 1, 3, 3, 1, 1, 3, 1, 1, 1, 1, 1, 1, 6, 0, 0,
   0, 7, 4, 2, 2, 7, 0, 0, 7, 0, 0, 0, 7, 0, 0, 0, 0, 1, 3, 1, 1, 3, 3, 1, 1, 1, 3, 1, 1, 1, 1, 1, 1, 3, 1, 1, 3, 3, 1, 3, 1, 1, 1, 1, 1, 1, 3, 1, 1, 1, 1, 1, 3, 3, 1, 1, 1, 3, 1, 1, 1, 1, 1, 1, 1, 3, 3, 1, 1, 5, 5, 5, 3, 1, 1, 1, 1, 3, 1, 1, 1, 1, 3, 3, 1, 1, 3, 1, 1, 1, 7, 7, 7, 6, 6, 6,
@@ -66,26 +66,26 @@ const uint8_t cityMap[CITY_H*CITY_W] = {
   0, 0, 4, 2, 2, 6, 6, 0, 6, 0, 6, 0, 6, 6, 6, 4, 4, 4, 2, 4, 4, 2, 2, 4, 7, 4, 2, 4, 4, 4, 4, 4, 4, 2, 4, 4, 2, 2, 4, 2, 4, 4, 4, 4, 4, 4, 2, 4, 4, 4, 4, 4, 2, 2, 4, 4, 4, 2, 4, 4, 4, 4, 4, 4, 4, 2, 2, 5, 5, 5, 4, 4, 2, 4, 7, 4, 4, 2, 4, 4, 4, 4, 2, 2, 4, 4, 2, 4, 4, 4, 0, 7, 0, 6, 0, 6,
   0, 0, 4, 2, 2, 6, 6, 0, 0, 6, 0, 6, 0, 0, 0, 1, 1, 1, 3, 1, 1, 3, 3, 1, 0, 4, 3, 1, 1, 1, 1, 1, 1, 3, 1, 1, 3, 3, 1, 3, 1, 1, 1, 1, 1, 1, 3, 1, 1, 1, 1, 1, 3, 3, 1, 1, 1, 3, 1, 1, 1, 1, 1, 1, 1, 2, 2, 5, 5, 5, 1, 1, 3, 1, 0, 1, 1, 3, 1, 1, 1, 1, 3, 3, 1, 1, 3, 1, 1, 1, 0, 7, 0, 0, 0, 0,
   0, 6, 4, 2, 2, 0, 6, 0, 0, 7, 0, 7, 6, 0, 6, 0, 7, 4, 2, 6, 4, 2, 2, 6, 0, 4, 2, 7, 0, 7, 7, 7, 4, 2, 7, 4, 2, 2, 4, 2, 10, 9, 9, 8, 8, 8, 0, 8, 8, 0, 0, 4, 2, 2, 10, 8, 4, 2, 8, 8, 8, 8, 8, 0, 4, 2, 2, 5, 5, 5, 0, 0, 0, 0, 0, 0, 4, 2, 7, 6, 0, 4, 2, 2, 7, 4, 2, 7, 7, 0, 0, 0, 0, 7, 0, 0,
-  6, 6, 4, 2, 2, 0, 7, 0, 0, 7, 0, 0, 0, 0, 6, 6, 7, 4, 2, 6, 4, 2, 2, 6, 0, 4, 2, 7, 14, 15, 14, 7, 4, 2, 7, 4, 2, 2, 4, 2, 9, 9, 9, 0, 8, 8, 0, 0, 0, 0, 0, 4, 2, 2, 10, 8, 4, 2, 8, 10, 45, 46, 45, 8, 4, 2, 2, 5, 5, 5, 0, 0, 0, 0, 8, 7, 4, 2, 6, 6, 6, 4, 2, 2, 7, 4, 2, 7, 7, 7, 6, 0, 0, 7, 7, 0,
-  6, 6, 4, 2, 2, 7, 0, 0, 7, 0, 7, 7, 0, 6, 6, 6, 7, 4, 2, 6, 4, 2, 2, 6, 0, 4, 2, 0, 14, 14, 14, 7, 4, 2, 7, 4, 2, 2, 4, 2, 9, 9, 9, 8, 8, 8, 0, 0, 0, 0, 0, 4, 2, 2, 0, 8, 4, 2, 10, 10, 45, 45, 45, 8, 4, 2, 2, 0, 5, 5, 5, 0, 0, 0, 0, 7, 4, 2, 6, 6, 6, 4, 2, 2, 7, 4, 2, 7, 7, 7, 6, 0, 7, 0, 0, 7,
-  0, 6, 4, 2, 2, 7, 7, 7, 0, 0, 7, 7, 5, 5, 6, 0, 5, 5, 5, 6, 4, 2, 2, 4, 4, 4, 2, 4, 14, 16, 14, 4, 4, 2, 4, 4, 2, 2, 4, 2, 4, 4, 4, 4, 4, 4, 2, 4, 4, 4, 4, 4, 2, 2, 4, 4, 4, 2, 4, 4, 45, 47, 45, 4, 4, 2, 2, 4, 5, 5, 5, 0, 0, 0, 4, 4, 4, 2, 4, 4, 4, 4, 2, 2, 4, 4, 2, 4, 4, 4, 0, 0, 0, 0, 7, 0,
+  6, 6, 4, 2, 2, 0, 7, 0, 0, 7, 0, 0, 0, 0, 6, 6, 7, 4, 2, 6, 4, 2, 2, 6, 0, 4, 2, 7, 14, 15, 14, 7, 4, 2, 7, 4, 2, 2, 4, 2, 9, 9, 9, 0, 8, 8, 0, 0, 0, 0, 0, 4, 2, 2, 10, 8, 4, 2, 8, 10, 8, 8, 8, 8, 4, 2, 2, 5, 5, 5, 0, 0, 0, 0, 8, 7, 4, 2, 6, 6, 6, 4, 2, 2, 7, 4, 2, 7, 7, 7, 6, 0, 0, 7, 7, 0,
+  6, 6, 4, 2, 2, 7, 0, 0, 7, 0, 7, 7, 0, 6, 6, 6, 7, 4, 2, 6, 4, 2, 2, 6, 0, 4, 2, 0, 14, 14, 14, 7, 4, 2, 7, 4, 2, 2, 4, 2, 9, 9, 9, 8, 8, 8, 0, 0, 0, 0, 0, 4, 2, 2, 0, 8, 4, 2, 10, 10, 8, 8, 0, 8, 4, 2, 2, 0, 5, 5, 5, 0, 0, 0, 0, 7, 4, 2, 6, 6, 6, 4, 2, 2, 7, 4, 2, 7, 7, 7, 6, 0, 7, 0, 0, 7,
+  0, 6, 4, 2, 2, 7, 7, 7, 0, 0, 7, 7, 5, 5, 6, 0, 5, 5, 5, 6, 4, 2, 2, 4, 4, 4, 2, 4, 14, 16, 14, 4, 4, 2, 4, 4, 2, 2, 4, 2, 4, 4, 4, 4, 4, 4, 2, 4, 4, 4, 4, 4, 2, 2, 4, 4, 4, 2, 4, 4, 4, 4, 4, 4, 4, 2, 2, 4, 5, 5, 5, 0, 0, 0, 4, 4, 4, 2, 4, 4, 4, 4, 2, 2, 4, 4, 2, 4, 4, 4, 0, 0, 0, 0, 7, 0,
   0, 6, 4, 2, 2, 0, 0, 7, 7, 0, 0, 5, 5, 5, 5, 5, 5, 5, 5, 5, 1, 3, 3, 1, 1, 1, 3, 1, 1, 1, 1, 1, 1, 3, 1, 1, 3, 3, 1, 3, 1, 1, 1, 1, 1, 1, 3, 1, 1, 1, 1, 1, 3, 3, 1, 1, 1, 3, 1, 1, 1, 1, 1, 1, 1, 3, 3, 1, 0, 5, 5, 5, 0, 0, 1, 1, 1, 3, 1, 1, 1, 1, 3, 3, 1, 1, 3, 1, 1, 1, 7, 0, 7, 7, 7, 0,
   0, 0, 4, 2, 2, 0, 7, 0, 0, 6, 5, 5, 5, 5, 5, 5, 5, 5, 5, 5, 4, 2, 2, 7, 7, 4, 2, 7, 7, 7, 7, 7, 4, 2, 0, 4, 2, 2, 4, 2, 10, 9, 9, 9, 9, 4, 2, 8, 8, 8, 8, 4, 2, 2, 8, 8, 4, 2, 9, 9, 9, 9, 0, 8, 4, 2, 2, 8, 10, 8, 5, 5, 5, 8, 8, 8, 4, 2, 7, 7, 7, 4, 2, 2, 7, 4, 2, 0, 7, 0, 0, 7, 0, 0, 0, 7,
   0, 0, 4, 2, 2, 4, 4, 4, 4, 4, 5, 5, 5, 5, 5, 5, 5, 5, 5, 5, 4, 2, 2, 4, 4, 4, 2, 4, 4, 4, 4, 4, 4, 2, 4, 4, 2, 2, 4, 2, 4, 4, 4, 4, 4, 4, 2, 4, 4, 4, 4, 4, 2, 2, 4, 4, 4, 2, 4, 4, 4, 4, 4, 4, 4, 2, 2, 4, 4, 4, 4, 5, 5, 5, 4, 4, 4, 2, 4, 4, 4, 4, 2, 2, 4, 4, 2, 4, 4, 4, 4, 4, 4, 0, 7, 0,
   6, 6, 4, 3, 3, 1, 1, 1, 1, 1, 1, 1, 1, 1, 1, 1, 1, 1, 1, 1, 1, 3, 3, 1, 1, 1, 3, 1, 1, 1, 1, 1, 1, 3, 1, 1, 3, 3, 1, 3, 1, 1, 1, 1, 1, 1, 3, 1, 1, 1, 1, 1, 3, 3, 1, 1, 1, 3, 1, 1, 1, 1, 1, 1, 1, 3, 3, 1, 1, 1, 1, 1, 1, 1, 1, 1, 1, 3, 1, 1, 1, 1, 3, 3, 1, 1, 3, 1, 1, 1, 1, 1, 1, 7, 7, 7,
   6, 0, 4, 3, 3, 1, 1, 1, 1, 1, 1, 1, 1, 1, 1, 1, 1, 1, 1, 1, 1, 3, 3, 1, 1, 1, 1, 1, 1, 1, 1, 1, 1, 3, 1, 1, 3, 3, 1, 3, 1, 1, 1, 1, 1, 1, 3, 1, 1, 1, 1, 1, 3, 3, 1, 1, 1, 3, 1, 1, 1, 1, 1, 1, 1, 3, 3, 1, 1, 1, 1, 1, 1, 1, 1, 1, 1, 3, 1, 1, 1, 1, 3, 3, 1, 1, 3, 1, 1, 1, 1, 1, 1, 0, 0, 0,
-  0, 0, 4, 2, 2, 0, 7, 5, 5, 5, 5, 5, 5, 5, 5, 5, 5, 5, 5, 5, 5, 2, 2, 20, 20, 20, 0, 21, 21, 22, 6, 7, 4, 2, 7, 4, 2, 2, 4, 2, 0, 9, 54, 55, 54, 4, 2, 9, 0, 8, 8, 4, 2, 2, 9, 9, 4, 2, 0, 9, 9, 9, 9, 10, 4, 2, 2, 9, 8, 8, 8, 10, 5, 5, 5, 9, 4, 2, 8, 7, 7, 4, 2, 2, 7, 4, 2, 7, 7, 0, 0, 0, 7, 7, 0, 0,
-  0, 0, 4, 2, 2, 0, 0, 5, 5, 5, 5, 5, 5, 5, 5, 5, 5, 5, 5, 5, 4, 2, 2, 21, 0, 0, 21, 21, 21, 21, 21, 21, 4, 2, 0, 4, 2, 2, 4, 2, 8, 8, 54, 54, 54, 4, 2, 8, 8, 8, 8, 4, 2, 2, 9, 9, 4, 2, 10, 9, 9, 9, 9, 9, 4, 2, 2, 9, 9, 9, 9, 9, 5, 5, 5, 9, 4, 2, 8, 7, 7, 4, 2, 2, 7, 4, 2, 7, 7, 7, 6, 0, 0, 0, 0, 7,
-  6, 0, 4, 2, 2, 0, 0, 0, 0, 5, 5, 5, 5, 5, 5, 5, 5, 20, 21, 22, 4, 2, 2, 21, 0, 21, 0, 21, 21, 21, 21, 22, 22, 20, 7, 4, 2, 2, 4, 2, 4, 4, 54, 56, 54, 4, 2, 4, 4, 4, 4, 4, 2, 2, 4, 4, 4, 2, 4, 4, 4, 4, 4, 4, 4, 2, 2, 4, 4, 4, 4, 4, 2, 5, 5, 5, 4, 2, 4, 4, 4, 4, 2, 2, 4, 4, 2, 4, 4, 4, 0, 0, 0, 0, 7, 7,
+  0, 0, 4, 2, 2, 0, 7, 5, 5, 5, 5, 5, 5, 5, 5, 5, 5, 5, 5, 5, 5, 2, 2, 20, 20, 20, 0, 21, 21, 22, 6, 7, 4, 2, 7, 4, 2, 2, 4, 2, 0, 9, 9, 9, 9, 4, 2, 9, 0, 8, 8, 4, 2, 2, 9, 9, 4, 2, 0, 9, 9, 9, 9, 10, 4, 2, 2, 9, 8, 8, 8, 10, 5, 5, 5, 9, 4, 2, 8, 7, 7, 4, 2, 2, 7, 4, 2, 7, 7, 0, 0, 0, 7, 7, 0, 0,
+  0, 0, 4, 2, 2, 0, 0, 5, 5, 5, 5, 5, 5, 5, 5, 5, 5, 5, 5, 5, 4, 2, 2, 21, 0, 0, 21, 21, 21, 21, 21, 21, 4, 2, 0, 4, 2, 2, 4, 2, 8, 8, 8, 8, 9, 4, 2, 8, 8, 8, 8, 4, 2, 2, 9, 9, 4, 2, 10, 9, 9, 9, 9, 9, 4, 2, 2, 9, 9, 9, 9, 9, 5, 5, 5, 9, 4, 2, 8, 7, 7, 4, 2, 2, 7, 4, 2, 7, 7, 7, 6, 0, 0, 0, 0, 7,
+  6, 0, 4, 2, 2, 0, 0, 0, 0, 5, 5, 5, 5, 5, 5, 5, 5, 20, 21, 22, 4, 2, 2, 21, 0, 21, 0, 21, 21, 21, 21, 22, 22, 20, 7, 4, 2, 2, 4, 2, 4, 4, 4, 4, 4, 4, 2, 4, 4, 4, 4, 4, 2, 2, 4, 4, 4, 2, 4, 4, 4, 4, 4, 4, 4, 2, 2, 4, 4, 4, 4, 4, 2, 5, 5, 5, 4, 2, 4, 4, 4, 4, 2, 2, 4, 4, 2, 4, 4, 4, 0, 0, 0, 0, 7, 7,
   6, 0, 4, 2, 2, 0, 0, 0, 20, 0, 5, 5, 5, 5, 5, 0, 20, 0, 21, 22, 4, 2, 2, 21, 0, 0, 21, 21, 21, 0, 0, 0, 22, 20, 20, 4, 3, 3, 1, 3, 1, 1, 1, 1, 1, 1, 3, 1, 1, 1, 1, 1, 3, 3, 1, 1, 1, 3, 1, 1, 1, 1, 1, 1, 1, 3, 3, 1, 1, 1, 1, 1, 3, 5, 5, 5, 1, 3, 1, 1, 1, 1, 3, 3, 1, 1, 3, 1, 1, 1, 6, 0, 6, 7, 7, 0,
   6, 0, 4, 2, 2, 0, 5, 5, 5, 20, 20, 5, 5, 5, 22, 20, 20, 20, 22, 0, 4, 2, 2, 21, 21, 21, 21, 21, 21, 21, 0, 21, 20, 20, 22, 4, 2, 2, 4, 2, 8, 8, 8, 8, 8, 4, 2, 8, 8, 0, 9, 4, 2, 2, 9, 10, 4, 2, 8, 8, 8, 8, 8, 9, 4, 2, 2, 9, 9, 9, 9, 4, 2, 5, 5, 5, 4, 2, 8, 8, 8, 4, 2, 2, 7, 4, 2, 7, 7, 7, 0, 6, 6, 6, 7, 0,
   6, 0, 4, 2, 2, 5, 5, 5, 0, 20, 0, 20, 20, 20, 20, 20, 20, 0, 21, 21, 4, 2, 2, 21, 21, 0, 21, 22, 21, 21, 21, 21, 20, 0, 0, 4, 2, 2, 4, 2, 10, 8, 8, 8, 8, 4, 2, 10, 8, 8, 8, 4, 2, 2, 9, 9, 4, 2, 8, 8, 8, 0, 0, 0, 4, 2, 2, 10, 9, 9, 9, 4, 2, 5, 5, 5, 4, 2, 0, 0, 8, 4, 2, 2, 0, 4, 2, 7, 7, 0, 6, 0, 6, 0, 0, 0,
-  0, 6, 4, 2, 2, 5, 5, 5, 0, 20, 20, 20, 0, 22, 0, 0, 22, 20, 21, 21, 4, 2, 2, 21, 22, 21, 21, 22, 21, 21, 22, 0, 0, 22, 20, 4, 2, 2, 0, 0, 10, 8, 8, 51, 52, 51, 2, 8, 8, 8, 8, 4, 2, 2, 0, 9, 4, 2, 0, 8, 8, 8, 8, 9, 4, 2, 2, 9, 9, 11, 12, 11, 2, 5, 5, 5, 4, 2, 0, 9, 8, 4, 2, 2, 6, 4, 2, 7, 7, 7, 0, 6, 6, 6, 0, 0,
-  0, 0, 4, 2, 2, 5, 5, 22, 0, 20, 20, 20, 20, 20, 0, 20, 0, 0, 0, 0, 4, 2, 2, 0, 0, 21, 21, 21, 0, 21, 21, 20, 20, 0, 0, 4, 2, 2, 20, 0, 8, 8, 8, 51, 51, 51, 2, 8, 8, 8, 8, 4, 2, 2, 10, 9, 4, 2, 8, 8, 8, 8, 8, 9, 4, 2, 2, 0, 8, 11, 11, 11, 2, 5, 5, 5, 4, 2, 9, 10, 0, 4, 2, 2, 0, 4, 2, 7, 7, 7, 6, 0, 6, 0, 6, 0,
-  0, 0, 4, 2, 2, 20, 20, 20, 20, 0, 20, 0, 0, 20, 0, 20, 0, 0, 0, 0, 4, 2, 2, 0, 22, 0, 21, 0, 0, 21, 20, 0, 0, 20, 20, 4, 2, 2, 20, 0, 22, 4, 4, 51, 53, 51, 2, 4, 8, 10, 8, 4, 2, 2, 4, 4, 4, 2, 4, 4, 4, 4, 4, 4, 4, 2, 2, 4, 4, 11, 13, 11, 2, 5, 5, 5, 4, 2, 4, 4, 4, 4, 2, 2, 4, 4, 2, 4, 4, 4, 0, 0, 0, 6, 6, 0,
-  0, 0, 4, 2, 2, 0, 20, 0, 20, 20, 20, 20, 22, 0, 20, 0, 0, 0, 0, 0, 4, 2, 2, 0, 0, 21, 0, 0, 0, 21, 0, 20, 20, 20, 20, 4, 2, 2, 17, 18, 17, 1, 1, 1, 1, 1, 3, 1, 0, 0, 0, 4, 3, 3, 1, 1, 1, 3, 1, 1, 1, 1, 1, 1, 1, 3, 3, 1, 1, 1, 1, 1, 3, 5, 5, 5, 1, 3, 1, 1, 1, 1, 3, 3, 1, 1, 3, 1, 1, 1, 6, 0, 0, 6, 6, 0,
-  0, 0, 4, 2, 2, 20, 20, 0, 20, 20, 20, 22, 20, 0, 0, 0, 0, 0, 0, 21, 4, 2, 2, 0, 0, 21, 0, 21, 0, 0, 20, 0, 20, 22, 0, 4, 2, 2, 17, 17, 17, 20, 10, 8, 10, 8, 0, 0, 0, 0, 0, 4, 2, 2, 9, 9, 4, 2, 10, 8, 0, 8, 9, 9, 4, 2, 2, 9, 8, 0, 8, 4, 2, 5, 5, 5, 4, 2, 9, 10, 8, 4, 2, 2, 6, 4, 2, 7, 0, 7, 6, 6, 6, 6, 0, 0,
-  0, 20, 4, 2, 2, 4, 4, 4, 4, 4, 4, 4, 4, 4, 4, 4, 4, 4, 4, 4, 4, 2, 2, 4, 4, 4, 4, 4, 4, 4, 4, 4, 4, 4, 4, 4, 2, 2, 17, 19, 17, 4, 4, 4, 4, 4, 4, 4, 4, 4, 4, 4, 2, 2, 4, 4, 4, 2, 4, 4, 4, 4, 4, 4, 4, 2, 2, 4, 4, 4, 4, 4, 2, 5, 5, 5, 4, 2, 4, 4, 4, 4, 2, 2, 4, 4, 2, 4, 4, 4, 4, 4, 4, 0, 0, 6,
+  0, 6, 4, 2, 2, 5, 5, 5, 0, 20, 20, 20, 0, 22, 0, 0, 22, 20, 21, 21, 4, 2, 2, 21, 22, 21, 21, 22, 21, 21, 22, 0, 0, 22, 20, 4, 2, 2, 0, 0, 10, 8, 8, 10, 8, 4, 2, 8, 8, 8, 8, 4, 2, 2, 0, 9, 4, 2, 0, 8, 8, 8, 8, 9, 4, 2, 2, 9, 9, 11, 12, 11, 2, 5, 5, 5, 4, 2, 0, 9, 8, 4, 2, 2, 6, 4, 2, 7, 7, 7, 0, 6, 6, 6, 0, 0,
+  0, 0, 4, 2, 2, 5, 5, 22, 0, 20, 20, 20, 20, 20, 0, 20, 0, 0, 0, 0, 4, 2, 2, 0, 0, 21, 21, 21, 0, 21, 21, 20, 20, 0, 0, 4, 2, 2, 20, 0, 8, 8, 8, 8, 8, 4, 2, 8, 8, 8, 8, 4, 2, 2, 10, 9, 4, 2, 8, 8, 8, 8, 8, 9, 4, 2, 2, 0, 8, 11, 11, 11, 2, 5, 5, 5, 4, 2, 9, 10, 0, 4, 2, 2, 0, 4, 2, 7, 7, 7, 6, 0, 6, 0, 6, 0,
+  0, 0, 4, 2, 2, 20, 20, 20, 20, 0, 20, 0, 0, 20, 0, 20, 0, 0, 0, 0, 4, 2, 2, 0, 22, 0, 21, 0, 0, 21, 20, 0, 0, 20, 20, 4, 2, 2, 20, 0, 22, 4, 4, 4, 4, 4, 2, 4, 8, 10, 8, 4, 2, 2, 4, 4, 4, 2, 4, 4, 4, 4, 4, 4, 4, 2, 2, 4, 4, 11, 13, 11, 2, 5, 5, 5, 4, 2, 4, 4, 4, 4, 2, 2, 4, 4, 2, 4, 4, 4, 0, 0, 0, 6, 6, 0,
+  0, 0, 4, 2, 2, 54, 55, 54, 20, 20, 20, 20, 22, 0, 20, 0, 0, 0, 0, 0, 4, 2, 2, 0, 0, 21, 0, 0, 0, 21, 0, 20, 20, 20, 20, 4, 2, 2, 17, 18, 17, 1, 1, 1, 1, 1, 3, 1, 0, 0, 0, 4, 3, 3, 1, 1, 1, 3, 1, 1, 1, 1, 1, 1, 1, 3, 3, 1, 1, 1, 1, 1, 3, 5, 5, 5, 1, 3, 1, 1, 1, 1, 3, 3, 1, 1, 3, 1, 1, 1, 6, 0, 0, 6, 6, 0,
+  0, 0, 4, 2, 2, 54, 54, 54, 20, 20, 20, 22, 20, 0, 0, 0, 0, 0, 0, 21, 4, 2, 2, 0, 0, 21, 0, 21, 0, 0, 20, 0, 20, 22, 0, 4, 2, 2, 17, 17, 17, 20, 10, 8, 10, 8, 0, 0, 0, 0, 0, 4, 2, 2, 9, 9, 4, 2, 10, 8, 0, 8, 9, 9, 4, 2, 2, 9, 8, 0, 8, 4, 2, 5, 5, 5, 4, 2, 9, 10, 8, 4, 2, 2, 6, 4, 2, 7, 0, 7, 6, 6, 6, 6, 0, 0,
+  0, 20, 4, 2, 2, 54, 56, 54, 4, 4, 4, 4, 4, 4, 4, 4, 4, 4, 4, 4, 4, 2, 2, 4, 4, 4, 4, 4, 4, 4, 4, 4, 4, 4, 4, 4, 2, 2, 17, 19, 17, 4, 4, 4, 4, 4, 4, 4, 4, 4, 4, 4, 2, 2, 4, 4, 4, 2, 4, 4, 4, 4, 4, 4, 4, 2, 2, 4, 4, 4, 4, 4, 2, 5, 5, 5, 4, 2, 4, 4, 4, 4, 2, 2, 4, 4, 2, 4, 4, 4, 4, 4, 4, 0, 0, 6,
   20, 0, 4, 3, 3, 1, 1, 1, 1, 1, 1, 1, 1, 1, 1, 1, 1, 1, 1, 1, 1, 3, 3, 1, 1, 1, 1, 1, 1, 1, 1, 1, 1, 1, 1, 1, 3, 3, 1, 1, 1, 1, 1, 1, 1, 1, 1, 1, 1, 1, 1, 1, 3, 3, 1, 1, 1, 3, 1, 1, 1, 1, 1, 1, 1, 3, 3, 1, 1, 1, 1, 1, 3, 1, 1, 1, 1, 3, 1, 1, 1, 1, 3, 3, 1, 1, 3, 1, 1, 1, 1, 1, 1, 6, 0, 0,
   0, 0, 4, 3, 3, 1, 1, 1, 1, 1, 1, 1, 1, 1, 1, 1, 1, 1, 1, 1, 1, 3, 3, 1, 1, 1, 1, 1, 1, 1, 1, 1, 1, 1, 1, 1, 3, 3, 1, 1, 1, 1, 1, 1, 1, 1, 1, 1, 1, 1, 1, 1, 3, 3, 1, 1, 1, 3, 1, 1, 1, 1, 1, 1, 1, 3, 3, 1, 1, 1, 1, 1, 3, 1, 1, 1, 1, 1, 1, 1, 1, 1, 3, 3, 1, 1, 3, 1, 1, 1, 1, 1, 1, 6, 0, 0,
   0, 0, 4, 2, 2, 0, 0, 0, 0, 0, 0, 0, 20, 20, 22, 22, 0, 0, 22, 22, 4, 2, 2, 20, 0, 20, 0, 0, 20, 0, 0, 22, 20, 21, 21, 4, 2, 2, 21, 21, 21, 21, 22, 9, 9, 4, 2, 0, 0, 0, 0, 4, 2, 2, 10, 9, 4, 2, 9, 9, 9, 9, 10, 0, 4, 2, 2, 8, 8, 8, 8, 4, 2, 8, 9, 9, 5, 5, 5, 10, 8, 4, 2, 2, 9, 4, 2, 7, 7, 7, 0, 6, 0, 6, 6, 0,
@@ -122,30 +122,30 @@ const CityPoi cityPois[CITY_NUM_POIS] = {
   { "Commissariat", 69, 78, 71, 80, 564, 652 },
   { "Hopital", 28, 64, 30, 66, 236, 540 },
   { "Pompiers", 38, 81, 40, 83, 316, 676 },
-  { "Planque", 25, 34, 27, 36, 212, 300 },
+  { "Planque", 89, 16, 91, 18, 724, 156 },
   { "Le Garage", 32, 7, 34, 9, 268, 84 },
-  { "Le Bar", 60, 64, 62, 66, 492, 540 },
-  { "Les Bureaux", 41, 49, 43, 51, 340, 420 },
-  { "Le Casino", 43, 78, 45, 80, 356, 652 },
-  { "Commerces", 42, 72, 44, 74, 348, 604 },
+  { "Le Bar", 6, 34, 8, 36, 60, 300 },
+  { "Les Bureaux", 58, 43, 60, 45, 476, 372 },
+  { "Le Casino", 89, 49, 91, 51, 724, 420 },
+  { "Commerces", 5, 81, 7, 83, 52, 676 },
 };
 
 const CityService citySprays[CITY_NUM_SPRAYS] = {
-  { 89, 86 },
-  { 34, 55 },
-  { 63, 22 },
-  { 84, 23 },
+  { 40, 9 },
+  { 27, 44 },
+  { 29, 63 },
+  { 78, 64 },
   { 15, 5 },
-  { 87, 55 },
+  { 54, 47 },
 };
 
 const CityService cityAmmus[CITY_NUM_AMMUS] = {
-  { 74, 42 },
-  { 87, 47 },
-  { 68, 17 },
+  { 73, 43 },
   { 34, 64 },
-  { 44, 55 },
+  { 59, 47 },
+  { 19, 58 },
   { 54, 5 },
-  { 34, 48 },
-  { 5, 32 },
+  { 89, 39 },
+  { 62, 22 },
+  { 73, 55 },
 };

diff --git a/tools/pois.py b/tools/pois.py
@@ -141,21 +141,28 @@ STAMP_DEFS = {
     "fire": dict(tiles={"F": "fire_facade", "S": "fire_sign", "D": "fire_door"},
                  prefer=None),
     # --- batiments-reperes de la trame principale (cf. campagne.md) ---
+    # prefer=None : leur dispersion est geree par STORY_STAMPS (placement le
+    # plus eloigne possible des autres reperes) plutot que par une zone, sinon
+    # ils s'agglutinent tous dans le meme quartier (downtown / Chinatown).
     "planque": dict(tiles={"F": "plan_facade", "S": "plan_sign", "D": "plan_door"},
-                    prefer=Z_RESIDENTIAL),
+                    prefer=None),
     "garage": dict(tiles={"F": "gar_facade", "S": "gar_sign", "D": "gar_door"},
                    prefer=None),
     "bar": dict(tiles={"F": "bar_facade", "S": "bar_sign", "D": "bar_door"},
-                prefer=Z_DOWNTOWN),
+                prefer=None),
     "bureaux": dict(tiles={"F": "bur_facade", "S": "bur_sign", "D": "bur_door"},
-                    prefer=Z_DOWNTOWN),
+                    prefer=None),
     "casino": dict(tiles={"F": "cas_facade", "S": "cas_sign", "D": "cas_door"},
-                   prefer=Z_DOWNTOWN),
+                   prefer=None),
     "commerces": dict(tiles={"F": "com_facade", "S": "com_sign", "D": "com_door"},
                       prefer=None),
 }
 STAMP_ORDER = ("police", "hospital", "fire", "planque", "garage", "bar",
                "bureaux", "casino", "commerces")
+# Reperes de la trame : disperses (chacun le plus loin possible des deja poses)
+# pour couvrir la carte. Les 3 premiers (services) gardent leur placement.
+STORY_STAMPS = frozenset(("planque", "garage", "bar", "bureaux", "casino",
+                          "commerces"))
 
 # --- noms d'affichage (HUD) des POI ------------------------------------------
 # Clefs : theme_id (quartiers) et nom de stamp (batiments-reperes). Servent a la
@@ -260,6 +267,7 @@ def place_stamps(grid, zones, district_id, seed_type, seed, w, h, tile_index,
     road_ids = {tile_index["road_h"], tile_index["road_v"], tile_index["road_cross"]}
     blocked = road_ids | {tile_index["water"]}
     occupied, placed = set(), {}
+    centers = []        # centres (tx,ty) des stamps deja poses (pour dispersion)
 
     for k, name in enumerate(STAMP_ORDER):
         sdef = STAMP_DEFS[name]
@@ -282,15 +290,27 @@ def place_stamps(grid, zones, district_id, seed_type, seed, w, h, tile_index,
         if not cands:
             placed[name] = None
             continue
-        rng = random.Random(seed + 20 + k)
-        rng.shuffle(cands)
-        cands.sort(key=lambda c: c[0])         # zone privilegiee d'abord (tri stable)
+        if name in STORY_STAMPS and centers:
+            # repere de trame : on le pose le plus LOIN possible de tous les
+            # reperes deja places (services + reperes precedents) -> dispersion
+            # sur la carte. Deterministe (distance, puis zone, puis x,y).
+            def _spread_key(c):
+                _, cxx, cyy, _cells = c
+                mx, my = cxx + sw // 2, cyy + sh // 2
+                dmin = min((mx - px) ** 2 + (my - py) ** 2 for px, py in centers)
+                return (-dmin, c[0], cxx, cyy)
+            cands.sort(key=_spread_key)
+        else:
+            rng = random.Random(seed + 20 + k)
+            rng.shuffle(cands)
+            cands.sort(key=lambda c: c[0])     # zone privilegiee d'abord (tri stable)
         _, x, y, cells = cands[0]
         for ci, c in enumerate(cells):
             ry, rx = divmod(ci, sw)
             grid[c] = tile_index[sdef["tiles"][blueprint[ry][rx]]]
             occupied.add(c)
         placed[name] = (x, y)
+        centers.append((x + sw // 2, y + sh // 2))
     return placed
 
 
@@ -574,14 +594,14 @@ def place_junkyard(grid, district_id, assign, tile_index, w, h, margin=2):
 #
 # Legende : G=palissade  .=terre  F=ossature  K=base de grue
 #           (l'unique '.' de la derniere ligne = entree, route exigee au sud).
+# 5x5 : compact, pour TENIR a l'interieur du quartier construction (ses blocs
+# sont petits -- un 9x7 ne rentre pas sans chevaucher une route).
 CONS_BLUEPRINT = (
-    "GGGGGGGGG",
-    "G.F...F.G",
-    "G.......G",
-    "GF..K..FG",
-    "G.......G",
-    "G.F...F.G",
-    "GGGG.GGGG",
+    "GGGGG",
+    "GF.FG",
+    "G.K.G",
+    "G...G",
+    "GG.GG",
 )
 CONS_TILE_OF = {"G": "cons_fence", ".": "cons_ground",
                 "F": "cons_frame", "K": "cons_crane"}
@@ -644,12 +664,19 @@ def place_construction(grid, district_id, assign, tile_index, w, h, margin=2):
             if ey + 1 >= h or grid[(ey + 1) * w + ex] not in roads:
                 continue                            # route exigee juste au sud
             ccx, ccy = x + bw // 2, y + bh // 2
-            inc = 0 if district_id[ccy * w + ccx] == cd else 1
-            d = (ccx - cx) ** 2 + (ccy - cy) ** 2
-            cands.append((inc, d, y, x, block))
+            # niveau d'appartenance au quartier construction : 0 = enceinte
+            # ENTIEREMENT dans le quartier (vise), 1 = centre dedans, 2 = hors.
+            if all(district_id[c] == cd for c in block):
+                tier = 0
+            elif district_id[ccy * w + ccx] == cd:
+                tier = 1
+            else:
+                tier = 2
+            d = (ccx - cx) ** 2 + (ccy - cy) ** 2   # proche du centroide -> centre
+            cands.append((tier, d, y, x, block))
     if not cands:
         return None
-    cands.sort()                                    # district d'abord, puis centroide
+    cands.sort()                                    # quartier d'abord, puis centroide
     _, _, y, x, block = cands[0]
     for ci, c in enumerate(block):
         ry, rx = divmod(ci, bw)

diff --git a/tools/citygen.py b/tools/citygen.py
@@ -544,6 +544,10 @@ def generate_into(city, seed, tile_index, solid_index,
     city.chantier = pois.place_construction(city.grid, district_id, assign,
                                             tile_index, w, h)
 
+    # expose le decoupage interne (diagnostic / placement POI affine)
+    city.district_id = district_id
+    city.theme_assign = assign
+
     # 9. spawn
     city.spawn = pick_spawn(city.grid, w, h, solid_index, z, idx)
     return city.spawn
